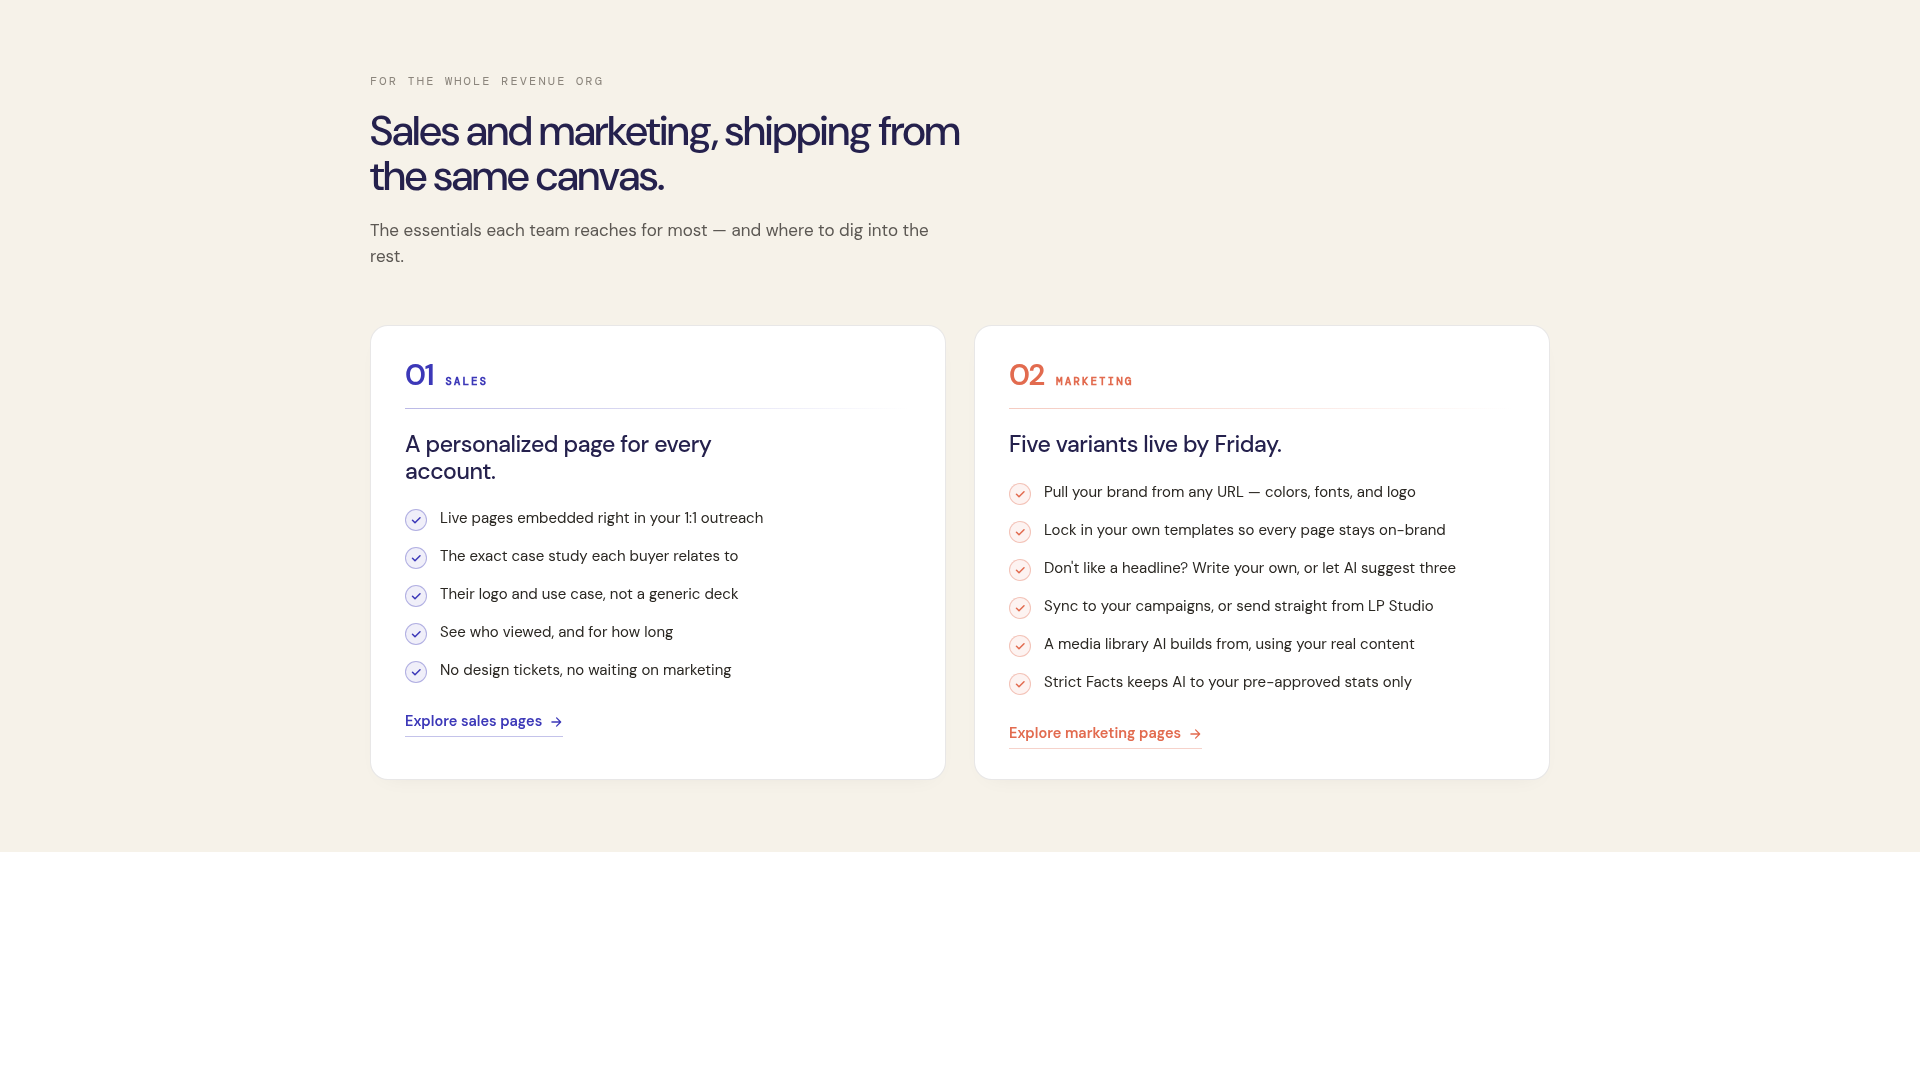
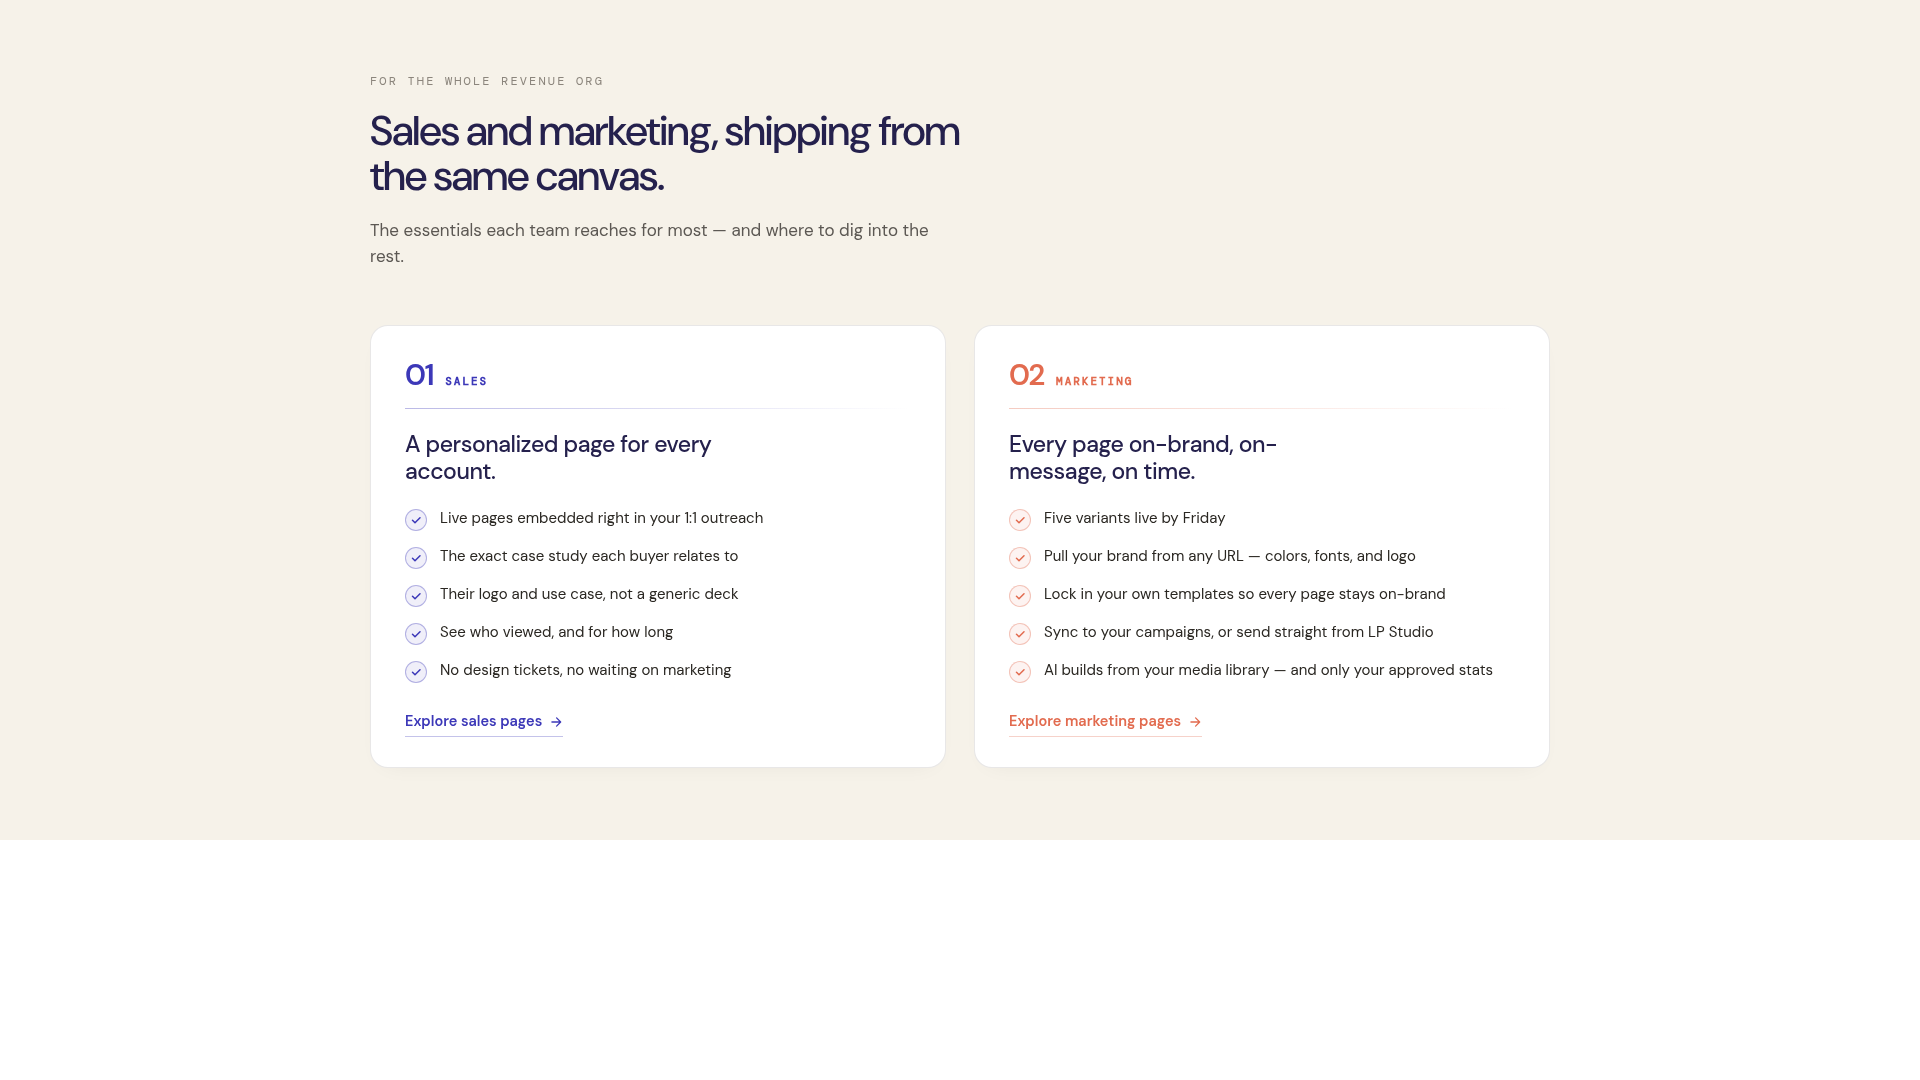
Update marketing headlines and bullet points to highlight brand consistency and speed
Change marketing headline from "Five variants live by Friday." to "Every page on-brand, on-message, on time." Adjust marketing bullet points to reflect new feature set and consolidate AI capabilities.

Replit-Commit-Author: Agent
Replit-Commit-Session-Id: db985929-9318-4957-86ae-a85cf50f6b09
Replit-Commit-Checkpoint-Type: full_checkpoint
Replit-Commit-Event-Id: 1cd67b7b-9d1c-4c68-8d35-412fd098465c
Replit-Commit-Screenshot-Url: https://storage.googleapis.com/screenshot-production-us-central1/b675546d-9cd7-487e-a83e-490be0d2ab55/db985929-9318-4957-86ae-a85cf50f6b09/IrT2siV
Replit-Helium-Checkpoint-Created: true

Changed region(s): [[0.5312, 0.3972, 0.7812, 0.7333], [0.2188, 0.7028, 0.4688, 0.7333]]

diff --git a/artifacts/mockup-sandbox/src/components/mockups/use-cases-checklist/LedgerChecklist.tsx b/artifacts/mockup-sandbox/src/components/mockups/use-cases-checklist/LedgerChecklist.tsx
@@ -30,14 +30,13 @@ const groups: Group[] = [
   {
     num: "02",
     name: "Marketing",
-    headline: "Five variants live by Friday.",
+    headline: "Every page on-brand, on-message, on time.",
     items: [
+      "Five variants live by Friday",
       "Pull your brand from any URL — colors, fonts, and logo",
       "Lock in your own templates so every page stays on-brand",
-      "Don't like a headline? Write your own, or let AI suggest three",
       "Sync to your campaigns, or send straight from LP Studio",
-      "A media library AI builds from, using your real content",
-      "Strict Facts keeps AI to your pre-approved stats only",
+      "AI builds from your media library — and only your approved stats",
     ],
     accent: "var(--coral)",
     cta: { label: "Explore marketing pages", href: "/for-marketing" },
